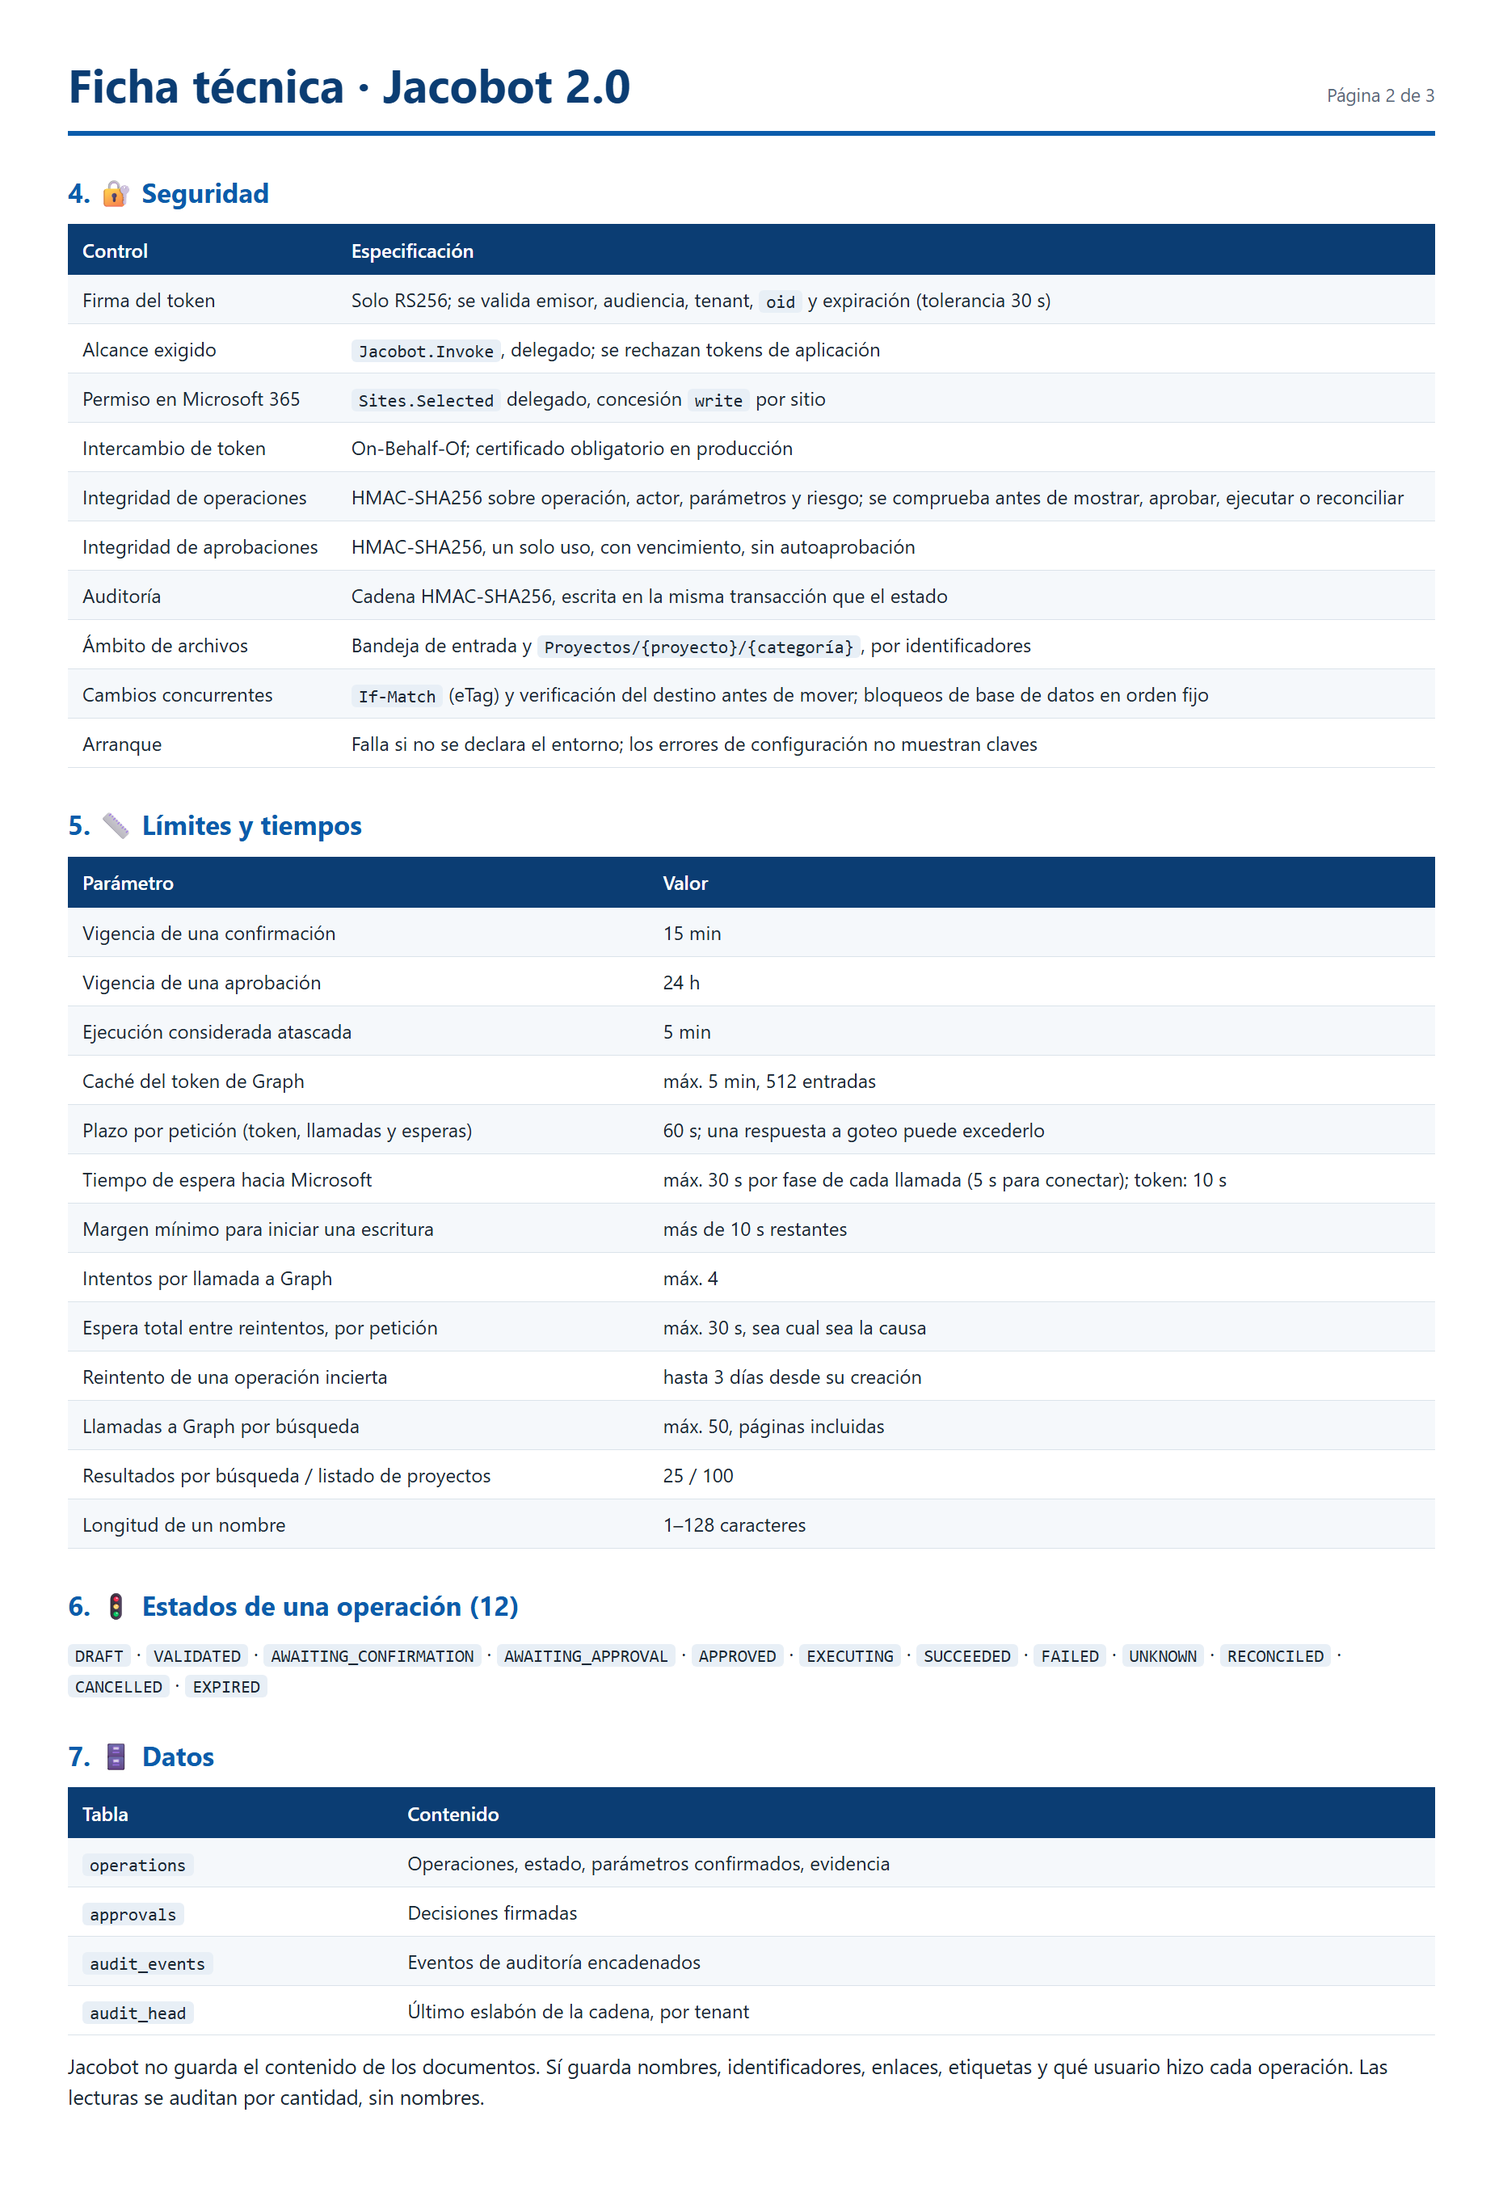
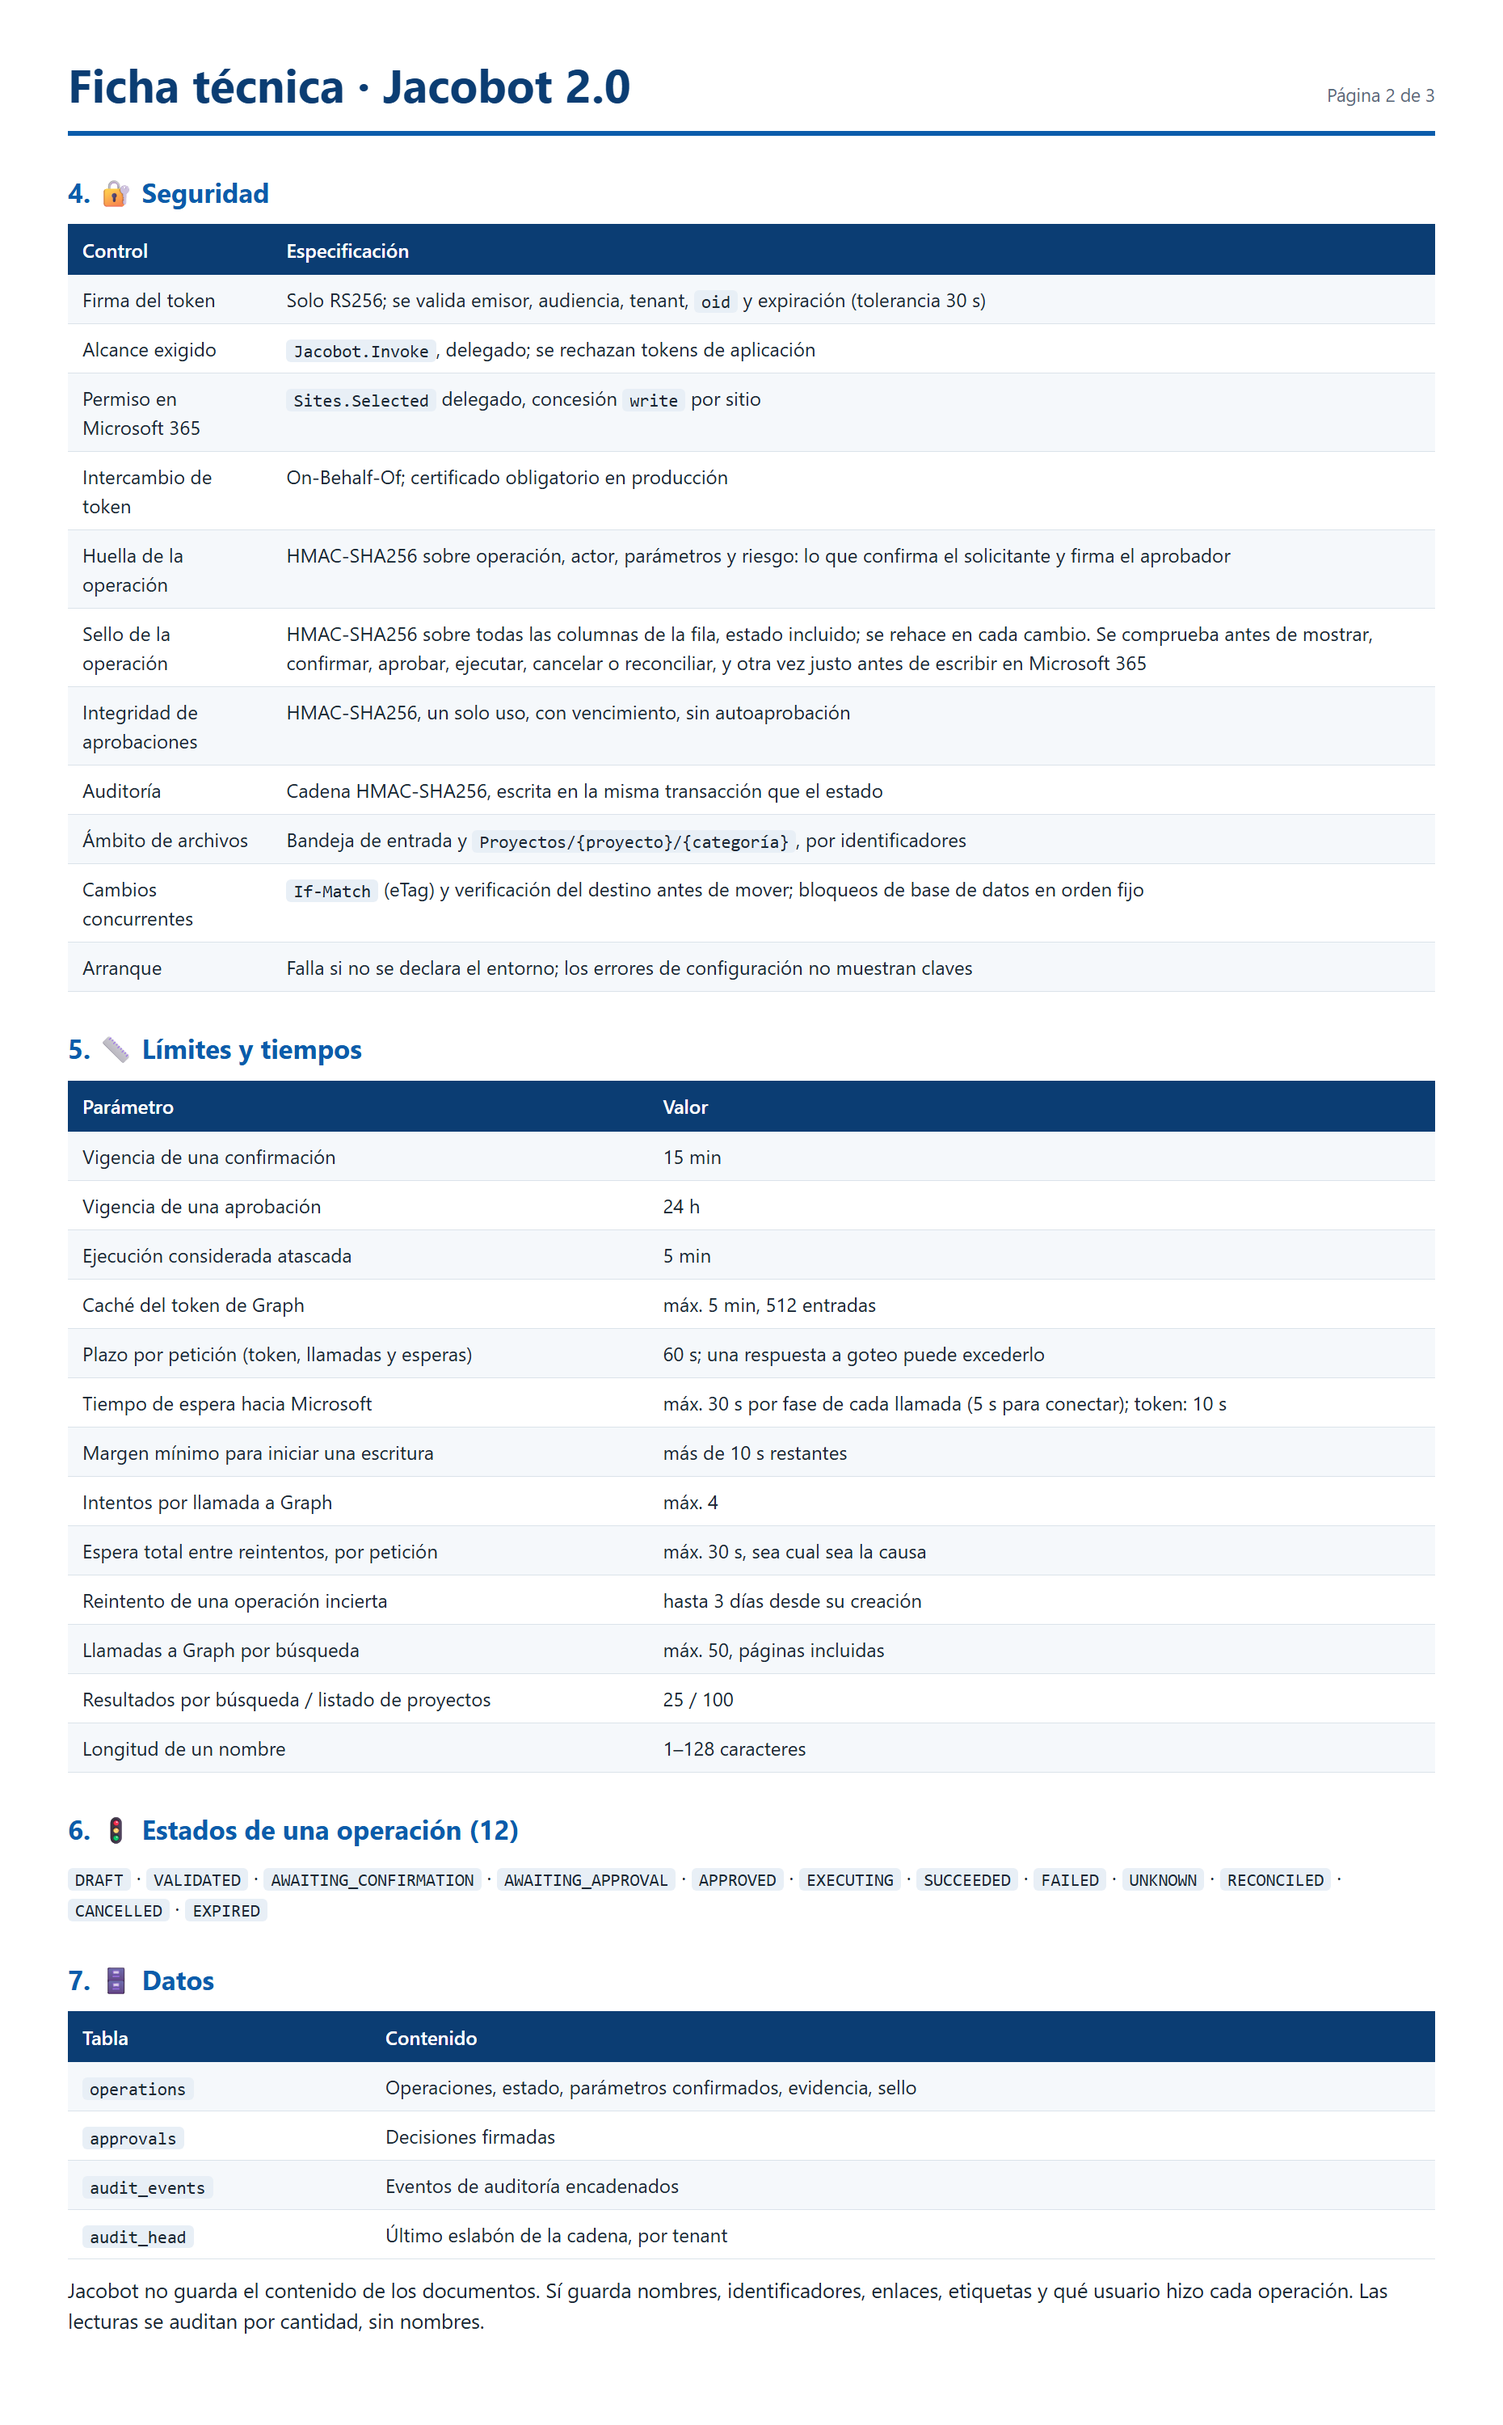
Update spec sheet and docs with the operation seal (2026-11-24)

diff --git a/docs/06-ficha-tecnica.md b/docs/06-ficha-tecnica.md
@@ -8,7 +8,7 @@
 | **Componente** | Tool Gateway (API HTTP) · versión 0.2.0 |
 | **Estado** | Preproducción. Fases 0–3 construidas; **nunca ejecutado contra un Microsoft 365 real** |
 | **Modelo de despliegue** | Una instalación por cliente (single-tenant) |
-| **Fecha de la ficha** | 23/11/2026 · valores extraídos del código |
+| **Fecha de la ficha** | 24/11/2026 · valores extraídos del código |
 
 Leyenda: ✅ construido y probado en local (Microsoft 365 siempre simulado) · 🟡 escrito, sin ejecutar · ⏳ planificado
 
@@ -76,7 +76,8 @@ Autenticación: `Authorization: Bearer` con token de usuario de Entra ID, salvo 
 | Alcance exigido | `Jacobot.Invoke`, delegado; se rechazan tokens de aplicación |
 | Permiso en Microsoft 365 | `Sites.Selected` delegado, concesión `write` por sitio |
 | Intercambio de token | On-Behalf-Of; certificado obligatorio en producción |
-| Integridad de operaciones | HMAC-SHA256 sobre operación, actor, parámetros y riesgo; se comprueba antes de mostrar, aprobar, ejecutar o reconciliar |
+| Huella de la operación | HMAC-SHA256 sobre operación, actor, parámetros y riesgo: lo que confirma el solicitante y firma el aprobador |
+| Sello de la operación | HMAC-SHA256 sobre todas las columnas de la fila, estado incluido; se rehace en cada cambio. Se comprueba antes de mostrar, confirmar, aprobar, ejecutar, cancelar o reconciliar, y otra vez justo antes de escribir en Microsoft 365 |
 | Integridad de aprobaciones | HMAC-SHA256, un solo uso, con vencimiento, sin autoaprobación |
 | Auditoría | Cadena HMAC-SHA256, escrita en la misma transacción que el estado |
 | Ámbito de archivos | Bandeja de entrada y `Proyectos/{proyecto}/{categoría}`, por identificadores |
@@ -110,7 +111,7 @@ Autenticación: `Authorization: Bearer` con token de usuario de Entra ID, salvo 
 
 | Tabla | Contenido |
 |---|---|
-| `operations` | Operaciones, estado, parámetros confirmados, evidencia |
+| `operations` | Operaciones, estado, parámetros confirmados, evidencia, sello |
 | `approvals` | Decisiones firmadas |
 | `audit_events` | Eventos de auditoría encadenados |
 | `audit_head` | Último eslabón de la cadena, por tenant |
@@ -118,21 +119,26 @@ Autenticación: `Authorization: Bearer` con token de usuario de Entra ID, salvo 
 Jacobot no guarda el contenido de los documentos. Sí guarda nombres, identificadores, enlaces,
 etiquetas y qué usuario hizo cada operación. Las lecturas se auditan por cantidad, sin nombres.
 
-## 8. 🧪 Calidad (medido el 23/11/2026)
+## 8. 🧪 Calidad (medido el 24/11/2026)
 
 | Métrica | Valor |
 |---|---|
-| Pruebas distintas que pasan | **205** |
-| Ejecuciones por base de datos | 305 en SQLite y 305 en PostgreSQL 17.12 (100 son las mismas pruebas repetidas sobre el adaptador HTTP) |
-| Controles añadidos en esta ronda, quitados uno a uno | 38 de 38 hacen fallar alguna prueba |
-| Imagen Docker | Construye, migra PostgreSQL y responde; sin token devuelve 401 |
+| Pruebas distintas que pasan | **284** (15 son de la demo local) |
+| Ejecuciones por base de datos | 384 en SQLite y 384 en PostgreSQL 17.12 (100 son las mismas pruebas repetidas sobre el adaptador HTTP) |
+| Controles del sello, quitados uno a uno | 30 de 30 hacen fallar alguna prueba (ronda anterior: 38 de 38) |
+| Imagen Docker | Construye, migra PostgreSQL y responde; sin token devuelve 401 (medido el 23/11, antes del sello) |
 | Pruebas contra Microsoft 365 real | 5 escritas, **0 ejecutadas** |
 | ruff · mypy estricto | Sin errores (17 archivos) |
-| Revisión de seguridad | 4 rondas con un **modelo de IA** auditor; la última: 0 altos, 2 medios y 6 bajos, todos corregidos |
+| Revisión de seguridad | 4 rondas con un **modelo de IA** auditor y 2 más sobre el sello; estas dos: 0 altos, 6 medios y 7 bajos, todos corregidos |
 
 Las revisiones de seguridad **no son un pentest externo** ni una certificación. La cuarta ronda
-volvió a auditar las correcciones anteriores y encontró varias incompletas. Ya están completadas y
-con prueba, pero **las correcciones de esa cuarta ronda no se han vuelto a auditar**.
+volvió a auditar las correcciones anteriores y encontró varias incompletas, ya completadas y con prueba.
+
+El sello cierra dos fallos reproducidos el 24/11/2026, el segundo porque una corrección de la cuarta
+ronda quedó incompleta: quien pudiera escribir en la base de datos podía saltarse la confirmación de
+una operación de riesgo bajo o medio, y cancelar mostraba una vista previa alterada. Al corregirlos se
+introdujeron cuatro errores nuevos, que encontraron esas dos revisiones. Están corregidos y con prueba,
+pero **las correcciones de la última revisión no se han vuelto a revisar**.
 
 ## 9. ⚠ Limitaciones conocidas
 
@@ -141,7 +147,8 @@ con prueba, pero **las correcciones de esa cuarta ronda no se han vuelto a audit
 | ☁ | Nada se ha probado en un Microsoft 365 real: permisos efectivos, revocación y tiempos están sin verificar |
 | 🐘 | PostgreSQL y la imagen Docker solo se han probado en un equipo local; la CI no se ha ejecutado |
 | 📒 | Quien pueda escribir en la base de datos puede **recortar el final** de la auditoría sin que se detecte; la solución está diseñada, no construida: requiere un ancla externa (Fase 7) |
-| 🗄 | Quien pueda escribir en la base de datos también puede alterar el estado, el resultado, el enlace y las fechas que muestra una operación |
+| 🗄 | Quien pueda escribir en la base de datos puede restaurar una **versión anterior auténtica** de una operación: deshacer una cancelación o repetir algo ya confirmado, nunca otra cosa. Siempre hace falta que la ejecute quien la pidió, y si espera aprobación, que el aprobador la apruebe |
+| 🔁 | Las operaciones creadas antes del sello no se pueden usar y hay que pedirlas de nuevo (no existe ninguna instalación real con ellas) |
 | 🔑 | Las claves de firma viven en la memoria de la aplicación; con ellas y acceso a la base se podrían falsificar registros |
 | 🔍 | La búsqueda es por nombre, no por contenido |
 | 🗑 | Sin borrado, subida de archivos ni restauración de versiones |

diff --git a/docs/02-seguridad.md b/docs/02-seguridad.md
@@ -116,7 +116,7 @@ flowchart LR
 ## 🧪 Revisiones adversariales
 
 > ⚠ Las hace un **modelo de IA**. No son un pentest externo ni una certificación. Las correcciones
-> de las fases 0–3 se volvieron a auditar; **las de esa última ronda, todavía no**.
+> de las fases 0–3 se volvieron a auditar; **las de la última revisión (la del sello), todavía no**.
 
 Al cerrar cada fase, un **auditor de IA** (otro modelo, con contexto aislado)
 intenta **romper** el sistema y demuestra cada fallo con una prueba automática que falla. Cada
@@ -127,7 +127,8 @@ hallazgo se corrige y su prueba queda como regresión para siempre.
 | 0–1 Base | 0 | 6 | 5 | ✅ Corregido, con prueba (algunas correcciones se completaron en la reauditoría) |
 | 2 Documentos | 1 | 2 | 3 | ✅ Corregido, con prueba |
 | 3 Microsoft 365 | 1 | 6 | 3 | ✅ Corregido, con prueba (P3-01, P3-02 y P3-03 se completaron después) |
-| Reauditoría (23/11/2026) | 0 | 2 | 6 | ✅ Corregido, con prueba · 🟡 sin volver a auditar |
+| Reauditoría (23/11/2026) | 0 | 2 | 6 | ✅ Corregido, con prueba (RW-01 se completó con el sello) · 🟡 las demás, sin volver a auditar a fondo |
+| Sello de operaciones (24/11/2026, 2 revisiones) | 0 | 6 | 7 | ✅ Corregido, con prueba · 🟡 sin volver a revisar |
 
 Ejemplos de lo que encontró:
 - 🔴 Si alguien movía la carpeta de destino *después* de la vista previa, el archivo terminaba en
@@ -139,6 +140,12 @@ Ejemplos de lo que encontró:
   máximo 50 por petición.
 - 🟠 Alguien con acceso a la base podía cambiar la vista previa que ve el aprobador.
   **Corregido:** la huella se comprueba antes de mostrarla y antes de aprobar.
+
+Al preparar la demo aparecieron otros dos fallos que las revisiones no habían visto: quien pudiera
+escribir en la base de datos podía marcar una operación de riesgo bajo o medio como confirmada y
+ejecutarla sin que nadie la confirmara, y *cancelar* mostraba la vista previa alterada.
+**Corregido:** cada operación lleva un **sello** sobre todos sus datos. Queda un resto: restaurar una
+versión anterior auténtica de la misma operación (ver [limitaciones](06-ficha-tecnica.md)).
 
 Al probar con PostgreSQL y con la imagen Docker aparecieron además fallos que las pruebas con
 SQLite ocultaban, ya corregidos: un bloqueo mutuo entre aprobar y cancelar a la vez, errores 500

diff --git a/README.md b/README.md
@@ -19,7 +19,7 @@ documentos, proyectos y tareas en SharePoint, de forma segura y auditada.**
 ![python](https://img.shields.io/badge/Python-3.12-blue)
 ![fastapi](https://img.shields.io/badge/FastAPI-0.115-009688)
 ![m365](https://img.shields.io/badge/Microsoft%20365-Graph%20v1.0-0078D4)
-![tests](https://img.shields.io/badge/tests-205%20✓%20simulados-brightgreen)
+![tests](https://img.shields.io/badge/tests-284%20✓%20simulados-brightgreen)
 ![privado](https://img.shields.io/badge/repo-privado-lightgrey)
 
 </div>
@@ -203,10 +203,10 @@ flowchart TB
 | 7 | 🚀 Infraestructura en Azure | `░░░░░░░░░░` | ⏳ |
 | 8 | 🧪 Auditoría final y piloto | `░░░░░░░░░░` | ⏳ |
 
-📊 **205 pruebas distintas pasando**, en SQLite y en PostgreSQL (305 ejecuciones en cada una: 100 se
-repiten sobre el adaptador HTTP) · 🔍 **4 revisiones de seguridad hechas por un modelo de IA**; los
-hallazgos están corregidos, pero los de la última no se han vuelto a auditar. No son un pentest
-externo. Ver la [ficha técnica](docs/06-ficha-tecnica.md).
+📊 **284 pruebas distintas pasando**, en SQLite y en PostgreSQL (384 ejecuciones en cada una: 100 se
+repiten sobre el adaptador HTTP) · 🔍 **6 revisiones de seguridad hechas por un modelo de IA**; los
+hallazgos están corregidos, pero las correcciones de la última no se han vuelto a revisar. No son un
+pentest externo. Ver la [ficha técnica](docs/06-ficha-tecnica.md).
 
 ---
 

diff --git a/docs/03-stack.md b/docs/03-stack.md
@@ -79,7 +79,7 @@ mantener que muchos microservicios.
 ├── 🧾 contracts      → contratos de entrada y salida
 ├── 🔌 adapters       → interfaz de almacenamiento + simulador
 ├── 🌐 graph          → adaptador real de Microsoft Graph
-├── 🔏 integrity      → huellas y firmas
+├── 🔏 integrity      → huellas, sellos y firmas
 ├── 🗄 db             → modelos de base de datos
 └── ⚙ config         → configuración por cliente
 ```
@@ -102,7 +102,7 @@ flowchart LR
 | 🟢 **Unitarias del adaptador** | Reintentos, paginación, errores, tokens | ✅ Pasando |
 | 🔴 **Live** | Comportamiento real de Microsoft 365 | ⏳ Esperando el tenant |
 
-📊 **205 pruebas distintas pasando** (305 ejecuciones en SQLite y 305 en PostgreSQL) · 5 pruebas
+📊 **284 pruebas distintas pasando** (384 ejecuciones en SQLite y 384 en PostgreSQL) · 5 pruebas
 live a la espera del tenant.
 
 ### ✅ Control de calidad en cada cambio

diff --git a/docs/05-glosario.md b/docs/05-glosario.md
@@ -18,6 +18,7 @@ Términos técnicos explicados sin jerga.
 | 📜 | **Catálogo** | La lista cerrada de acciones que Jacobot sabe hacer. Lo que no está ahí, no se puede pedir |
 | 👀 | **Vista previa** | Lo que Jacobot te muestra antes de hacer algo, para que confirmes |
 | 🔏 | **Huella / digest** | Un código único calculado sobre lo que se va a hacer. Si algo cambia, la huella deja de coincidir |
+| 🪪 | **Sello** | Firma sobre todos los datos guardados de una operación, incluido su estado. Si alguien los edita en la base de datos, Jacobot se niega a usarla |
 | ✍ | **Firma HMAC** | Un sello criptográfico que delata si alguien edita una aprobación o un evento de auditoría sin tener la clave |
 | 🧑⚖ | **Segregación de funciones** | Quien pide no puede ser quien aprueba |
 | ❓ | **UNKNOWN** | Estado de una operación cuando no se sabe si Microsoft la ejecutó (por ejemplo, se cortó la conexión) |

diff --git a/docs/01-como-funciona.md b/docs/01-como-funciona.md
@@ -81,6 +81,10 @@ lo que se va a hacer: qué archivo, qué destino, quién lo pide y con qué nive
 confirmación y la aprobación quedan atadas a esa huella. Si alguien cambia algo después, aunque
 sea directamente en la base de datos, la huella deja de coincidir y Jacobot se niega a ejecutar. 🚫
 
+Además, cada operación lleva un **sello** sobre *todos* sus datos, incluido si está confirmada o
+aprobada. La clave no está en la base de datos, así que nadie puede marcar una operación como
+confirmada editándola ahí. 🔏
+
 ---
 
 ## 🚦 La máquina de estados
